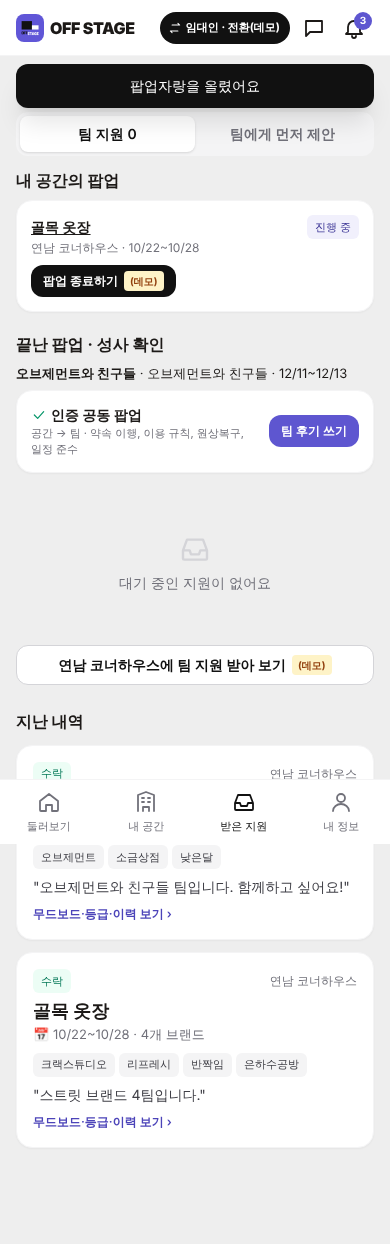
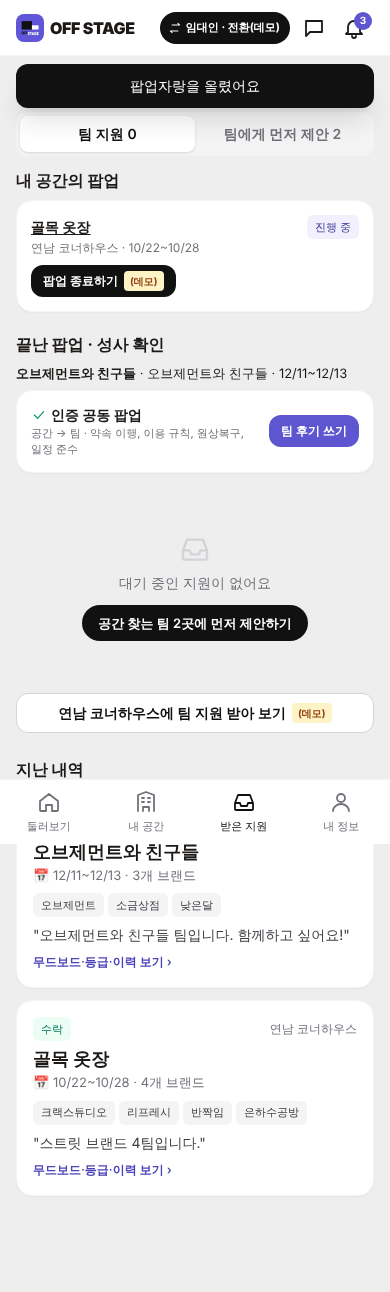
임대인 받은 지원: 빈 상태에서 공간 찾는 팀에게 바로 제안
Claude-Session: https://claude.ai/code/session_0127PgxmrWax7HLBrSWBod79

diff --git a/src/screens/SpaceLandlord.tsx b/src/screens/SpaceLandlord.tsx
@@ -129,13 +129,17 @@ export function InboxTab() {
     <div>
       <ScreenTitle>받은 지원</ScreenTitle>
       <div className="px-4 mb-3">
-        <Segmented items={[{ key: 'apps', label: `팀 지원 ${pending.length}` }, { key: 'offer', label: '팀에게 먼저 제안' }]} value={tab} onChange={setTab} />
+        <Segmented items={[{ key: 'apps', label: `팀 지원 ${pending.length}` }, { key: 'offer', label: `팀에게 먼저 제안 ${openRecruits.length + spacelessTeams.length}` }]} value={tab} onChange={setTab} />
       </div>
       {tab === 'apps' && (
         <div className="px-4 space-y-3">
           <LandlordCompletions />
           {pending.length > 0 && <h3 className="font-bold">대기 중인 팀 지원</h3>}
-          {pending.length === 0 && <Empty icon="inbox">대기 중인 지원이 없어요</Empty>}
+          {pending.length === 0 && (
+            <Empty icon="inbox" action={openRecruits.length + spacelessTeams.length > 0 ? { label: `공간 찾는 팀 ${openRecruits.length + spacelessTeams.length}곳에 먼저 제안하기`, onClick: () => setTab('offer') } : undefined}>
+              대기 중인 지원이 없어요
+            </Empty>
+          )}
           {pending.length === 0 && landlord.spaceIds[0] && db.recruitments.some((r) => !r.teamId && r.status !== '마감') && (
             <Button full variant="secondary" onClick={() => simulateTeamApplication(landlord.spaceIds[0])}>
               {spaceById(db, landlord.spaceIds[0])?.name}에 팀 지원 받아 보기 <Demo />
